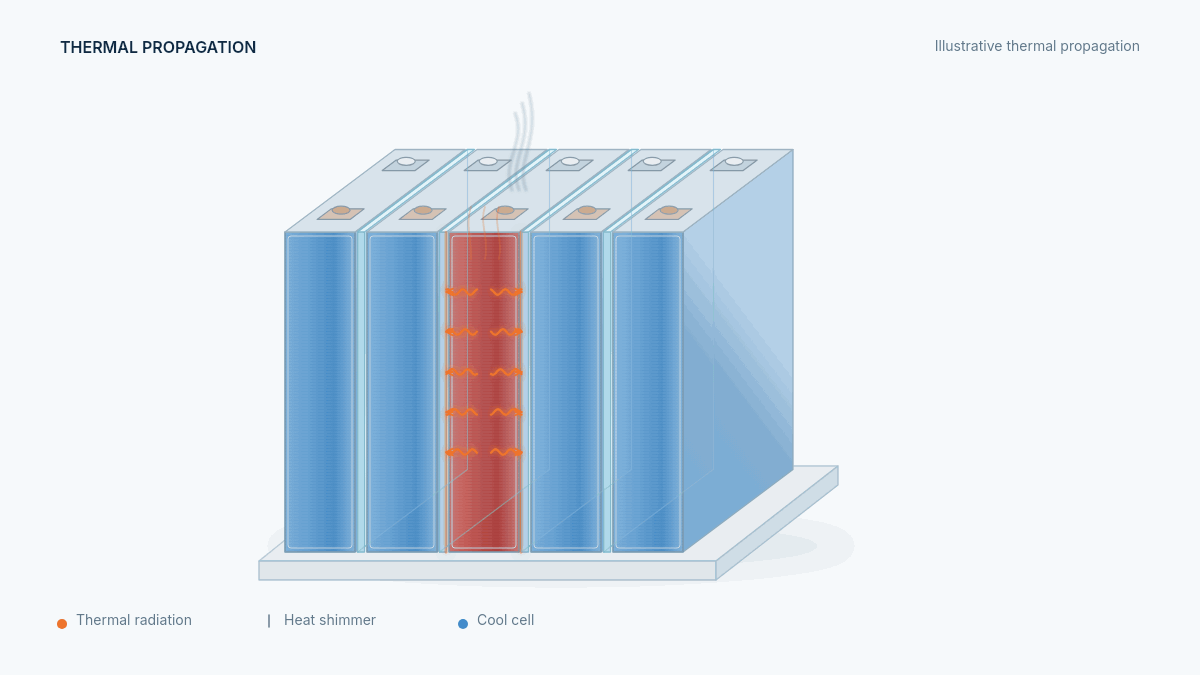
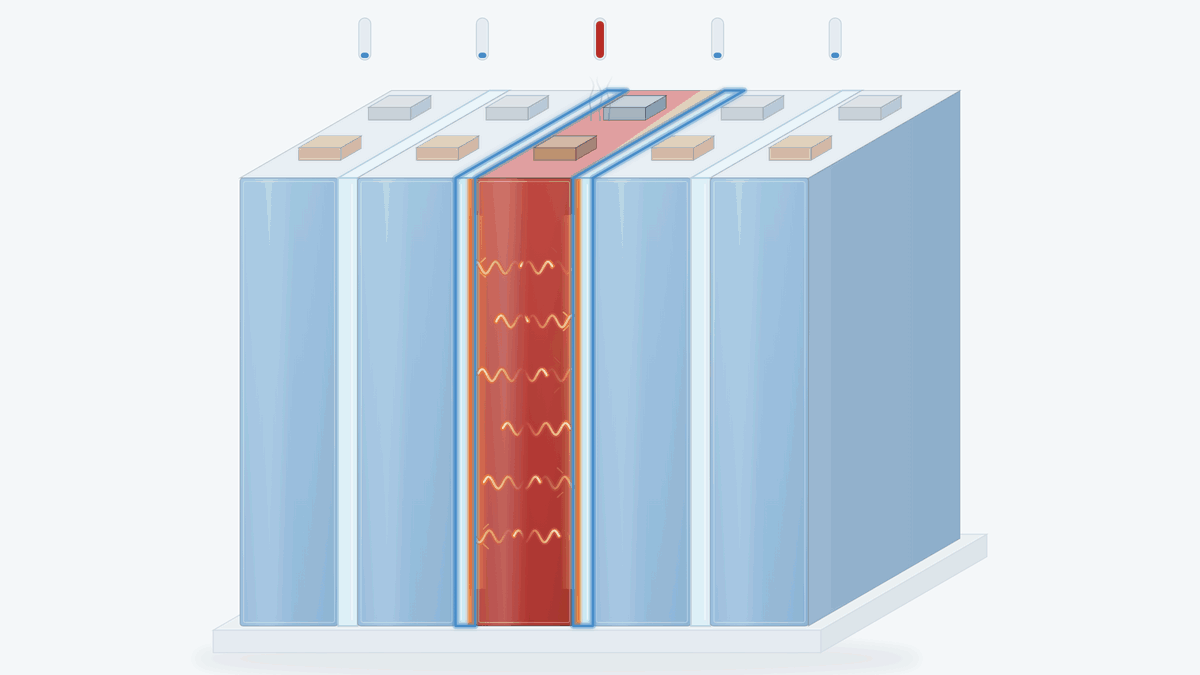
Adopt Claude's propagation GIFs and update the build prompt
Replace design/propagation-*.gif and assets/hero-frame-32.png with the
design-claude/ version, and update style-notes.md, README.md and
verification.json to describe them. Rewrite the build prompt around
the files actually uploaded: concepts for layout, a live canvas
animation reusing the renderer, copy fixes from the design review,
visible placeholders, and a browser check at 390 and 1440 px.

Claude-Session: https://claude.ai/code/session_015KNULboUEeR9JGwZvqPwSE

diff --git a/prompts/aerotherm-homepage-2-build.md b/prompts/aerotherm-homepage-2-build.md
@@ -1,7 +1,17 @@
-Build the company homepage for **Aerotherm** as a real, working single page in HTML and CSS. Base it on the design files in `design/` from the previous step: `concept-desktop.png`, `concept-mobile.png`, `propagation-without.gif`, `propagation-with.gif`, `principle-knudsen.gif`, `principle-solid.gif`, `principle-radiation.gif`, the icons in `design/icons/`, `loading.gif` and `style-notes.md`.
+Build the Aerotherm company homepage as a real, working single page in HTML, CSS and a little vanilla JavaScript, from the design files already in this repository. Put the site in `site/`: `site/index.html` and `site/assets/`. Leave `design/` and `design-claude/` as they are.
 
-**First, review the design**
-Look at every image and GIF before you write any code. Note the layout, colors, type, spacing, and each animation's key frames and timing, using `style-notes.md` where it helps. Where the design conflicts with this prompt (garbled text, invented numbers or logos, a physically wrong picture), follow this prompt and note what you changed.
+**The design files**
+| File | Use it for |
+| --- | --- |
+| `design/concept-desktop.png` (1440 px wide), `design/concept-mobile.png` (390 px wide) | Layout, section order, hierarchy and starting copy, at both sizes. Their hero image is out of date: use the propagation animation below instead. |
+| `design/style-notes.md` | Colors (hex), type scale, spacing scale, grid, control sizes, and every animation's keyframes and timing. |
+| `design/fonts/` | Manrope (headings and wordmark) and Inter (UI and body), with their OFL licenses. Self-host them with `@font-face` and ship the licenses. |
+| `design/propagation-without.gif`, `design/propagation-with.gif`, `design/assets/hero-frame-32.png` | The thermal propagation animation: the hero (with Aerotherm) and the Technology comparison (both). |
+| `design-claude/source/render.html` | The exact drawing code for that animation: geometry, heat colors, timing and emphasis effects. |
+| `design/principle-knudsen.gif`, `design/principle-solid.gif`, `design/principle-radiation.gif` | The three animated Technology panels. |
+| `design/icons/*.gif`, `design/loading.gif` | The six icons and the loading state. |
+| `design/assets/application-ev.png`, `design/assets/application-ess.png`, `design/assets/lab-concept.png` | The Applications and R&D illustrations. Use them as provided, converted to WebP at the sizes the layout needs. |
+| `design/README.md`, `design/generation-prompts.json`, `design/verification.json`, `design/preview.png`, `design/assets/board-material.png` | Background only; not for the page. |
 
 **Company and product facts (use only these)**
 - Aerotherm was founded in October 2026 in Pyeongtaek, Republic of Korea.
@@ -17,34 +27,41 @@ Look at every image and GIF before you write any code. Note the layout, colors, 
 3. Radiation blocking: infrared opacifiers mixed into the nano-silica reflect or scatter the radiant heat produced at high temperatures.
 4. Lower conductivity than still air: nano-silica insulation boards reach about 0.011–0.023 W/m·K, lower than still air (about 0.026 W/m·K at room temperature), and insulate more than twice as well as styrofoam or glass wool in a thinner layer.
 
-Present the figures in principle 4 as typical of nano-silica insulation boards, not as Aerotherm's own measured results; Aerotherm's measured thermal conductivity stays as `{{thermal_conductivity}}` in the spec table. Describe the radiation blocking only as infrared opacifiers mixed into the nano-silica, without naming specific materials or amounts.
+Present the figures in principle 4 as typical of nano-silica insulation boards, not as Aerotherm's own measured results. Describe the radiation blocking only as infrared opacifiers mixed into the nano-silica, without naming specific materials or amounts. Do not invent figures, history, people, test results, patents, certifications, partners or customers. It is a newly founded company, so do not imply a long track record, mass production or existing customers.
 
-Do not invent figures, history, people, test results, patents, certifications, partners or customers. It is a newly founded company, so do not imply a long track record, mass production or existing customers. Wherever the page needs a fact, put a clearly marked placeholder such as `{{thermal_conductivity}}`, `{{street_address}}` or `{{contact_email}}`.
+**Placeholders:** wherever the page needs a fact that is not above (Aerotherm's measured specs, street address, phone, email, patents, certifications, later news), write a visible token such as `{{thermal_conductivity}}` or `{{contact_email}}`, styled with a subtle dashed outline so nothing unfilled can ship unnoticed.
 
-**Copy:** a deep-tech materials company whose work keeps one failing battery cell from becoming a fire. Its edge is radiation: it blocks the heat that travels as radiation, not only the heat carried by convection that ordinary aerogel stops. Make that the thread through the hero, About and Technology. Keep the tone calm, precise and trustworthy, for engineers and buyers at battery, EV and ESS makers. Write in English, with a KO / EN switch in the header that links to `#` for now.
+**Copy**
+Start from the copy in the concept images, keep it within the facts, and write in English, with a KO / EN switch in the header that links to `#` for now. Radiation is the company's edge: make it the thread through the hero, About and Technology. Keep the tone calm, precise and trustworthy, for engineers and buyers at battery, EV and ESS makers. Fix these points from the concepts:
+- The "Lower conductivity than still air" panel must say these boards insulate more than twice as well as styrofoam or glass wool in a thinner layer, and label 0.011–0.023 W/m·K as typical of the material class.
+- The Product spec table gains a "Radiation-blocking performance" row. Every value in it is a placeholder.
 
-**Sections (one page with anchor navigation)**
-1. Header: AEROTHERM wordmark; nav for About, Technology, Product, Applications, R&D, News, Contact; KO / EN switch; a "Contact us" button.
-2. Hero: the company mission in one line, the hero animation (the with-Aerotherm propagation loop), and two calls to action (Explore our technology / Request a sample).
-3. About: who Aerotherm is (founded October 2026 in Pyeongtaek, Korea) and why thermal propagation matters.
-4. Technology: the four principles, each with its own animation (the Knudsen effect, solid conduction and radiation blocking) or chart (a bar chart of the typical 0.011–0.023 W/m·K range against still air), followed by the interactive with/without comparison.
-5. Product: the board, where it sits between cells, and a spec table made of placeholders, including thermal conductivity and radiation-blocking performance.
-6. Applications: EV battery packs (cell to cell) and ESS (cell to cell, rack and container).
-7. R&D and quality: lab and test capabilities, patents and certifications, all as placeholders.
-8. News and milestones: three cards. The first is the company's founding in October 2026; the other two are placeholders.
-9. Contact: an inquiry form (name, company, email, inquiry type: sample, technical, partnership; message) that validates on the client and is not wired to a backend.
-10. Footer: company info (Pyeongtaek, Republic of Korea, with street address, phone and email as placeholders), links and © 2026 Aerotherm.
+**Sections:** follow the concepts: header (AEROTHERM wordmark; About, Technology, Product, Applications, R&D, News, Contact; KO / EN; "Contact us"), hero, About, Technology (four principle panels, then "One event. Two outcomes."), Product, Applications (EV battery pack; ESS rack and container), R&D and quality, News and milestones (the first card is the founding in October 2026; the other two are placeholders), Contact, footer (Pyeongtaek, Republic of Korea; © 2026 Aerotherm).
+
+**The propagation animation (the page's centerpiece)**
+- Draw it live in a `<canvas>` by reusing the drawing code in `design-claude/source/render.html`. Its `draw(variant, frame)` renders any frame, and its timing functions accept fractional frames, so drive the frame from elapsed time (frame = 1 + elapsed / 50 ms, holding frame 60 for 1.5 s) and redraw on every animation frame for smooth motion. Adapt it where needed: size the canvas to its container and the device pixel ratio, and make the fade-in and fade-out (a table keyed by whole frames) work with fractional frames.
+- Hero: the animation with Aerotherm, looping.
+- "One event. Two outcomes.": both animations side by side on desktop and stacked on mobile, driven by one shared clock so they stay frame-aligned. Add play/pause and a scrubber (a range input) that moves both through the event together.
+- Give each canvas `role="img"` and an `aria-label` that says what happens. With `prefers-reduced-motion`, show still frames instead: frame 32 for the version with Aerotherm, frame 60 for the version without. Without JavaScript, show `hero-frame-32.png`. Pause the animations while they are off screen.
+
+**Other animations:** recreate the three principle panels, the six icons and the loading state in CSS keyframes and inline SVG, following the keyframes table in `style-notes.md`. Do not put the GIFs on the page. Give the icons a transparent background so they sit cleanly on white cards.
 
 **Build rules**
-- All text is real HTML, not baked into images. The nav scrolls to each section, and collapses into a menu on mobile.
-- Recreate the animations in code (CSS keyframes and inline SVG) instead of dropping the GIFs onto the page: the two propagation animations, the three principle animations, the icons and the loading state. Keep the propagation animations' stages and timing (3.2 s of motion, then a 1.5 s hold), and let the browser interpolate between stages so the motion is smooth. Keep their emphasis on the blocking moment: the heat front, its impact on the boards, the hot/cool line at each board, the outline pulse and the temperature gauges. Build the bar chart in HTML or SVG.
-- Draw the cells and boards in code the way the design does: prismatic cells stacked face to face with their thin narrow ends toward the viewer, seen from a slight three-quarter angle, and each Aerotherm board a thin sheet between the broad faces of two neighboring cells, about the same size as a broad face. Never put the boards between the cells' narrow edges.
-- Make the with/without comparison interactive: a toggle or slider that switches between the two propagation animations, frame for frame. Without Aerotherm, heat cascades through every cell; with it, heat stops at the boards beside the failing cell.
-- Convert any GIF you still need to a looping MP4 (muted, autoplay, playsinline, with a poster frame) or an animated WebP.
-- Keep the page light throughout, as in the design, with text and heat colors that meet WCAG AA contrast on the light background.
-- Make it responsive from 360 px to 1440 px and wider, following `concept-mobile.png` on small screens. Respect `prefers-reduced-motion` (show a static end state), and use semantic, accessible markup.
+- A static site: vanilla HTML, CSS and JavaScript, no framework and no build step. It works opened from disk or from any static server.
+- Put the colors, type, spacing and radii from `style-notes.md` into CSS custom properties.
+- Keep the page light throughout, with text and heat colors that meet WCAG AA contrast on the light background.
+- Make it responsive from 360 px to 1440 px and wider, following `concept-mobile.png` on small screens, with a mobile menu and no horizontal scrolling. The nav scrolls smoothly to each section.
+- Use semantic, accessible markup: landmarks, ordered headings, labelled form fields, visible focus states and alt text.
+- The contact form validates on the client and is not wired to a backend; say so in a short note under the button.
+- Give images explicit sizes and lazy-load those below the fold; preload the two fonts with `font-display: swap`.
+
+**Check before you deliver**
+- Open the page in a browser at 390 px and 1440 px, compare it with the concepts, and fix any overflow or broken layout.
+- Confirm the animations run, the scrubber and play/pause work, reduced motion shows the still frames, and the form validates.
+- Save full-page screenshots at both widths in `site/review/`.
 
 **Deliver**
-- `index.html` and its `assets/` folder (CSS, JS, SVG, video, images), leaving `design/` as it is
+- `site/index.html` and `site/assets/` (CSS, JS, fonts, images)
+- the screenshots in `site/review/`
 - a list of every placeholder that needs real Aerotherm data
 - a short note on where you departed from the design, and why

diff --git a/design/style-notes.md b/design/style-notes.md
@@ -32,18 +32,22 @@ Use soft laboratory lighting, metallic microtexture, fine rules and restrained g
 
 ## Cell geometry and shared animation rules
 
-Both propagation GIFs use the same fixed orthographic camera, approximately 25° off the narrow-end view and slightly above the module. Five tall, flat prismatic metal cans sit broad-face to broad-face, each with two top terminals. Relative physical dimensions: cell thickness 70, broad-face width 250, height 320; board thickness 7. These are illustration construction units, not product dimensions or specs. The four boards cover the broad faces. Fine cutaway outlines expose their area; the empty version preserves the same gaps and all cell positions.
+> **Updated:** the two propagation GIFs and `assets/hero-frame-32.png` were replaced with the version in `design-claude/`, which adds the blocking emphasis. Its renderer, `design-claude/source/render.html`, holds the exact geometry, colors and timing below. The hero in `concept-desktop.png` and `concept-mobile.png` still shows the earlier GIF; use the new GIFs and hero frame instead.
 
-Heat always begins in the middle cell. Geometry, terminal positions, camera, background and lighting remain fixed. Each propagation GIF has exactly 64 encoded frames at 1200 × 675 px. Frames 1–63 display for 50 ms; frame 64 displays for 1550 ms, comprising its normal 50 ms plus a 1500 ms hold. Motion is 3.2 s; the full looping cycle is 4.7 s. Both use the same global color table, with no local frame palettes. Heating stages use cubic smoothstep, `3t² − 2t³`.
+Both propagation GIFs use the same fixed oblique camera: the narrow ends face the viewer and depth recedes up and to the right at 30°, at half scale. Five tall, flat prismatic metal cans sit broad-face to broad-face, each with two top terminals. Relative dimensions: cell thickness 70, broad-face width 250, height 320; board thickness 14, one fifth of a cell, **exaggerated for legibility**. These are illustration construction units, not product dimensions or specs. The four boards cover the broad faces; their top edges run the full depth of the cells. The version without Aerotherm keeps the same gaps and cell positions. The module is centered at about 60% of the canvas width, with a number-free gauge above each cell. There is no text inside the GIFs.
 
-`assets/hero-frame-32.png` is decoded directly from frame 32 of `propagation-with.gif`. Both homepage heroes use that same image, cropped and scaled to the module, without changing its heat state. The Technology comparison uses the matched final states.
+Heat always begins in the middle cell. Geometry, camera, background and lighting remain fixed. Each propagation GIF has exactly 64 encoded frames at 1200 × 675 px. Every frame displays for 50 ms except frame 60, which displays for 1550 ms (50 ms plus a 1500 ms hold on the end state); the cycle is 4.7 s. Frames 1–4 fade in from the background and frames 61–64 fade out to it. Both use the same global color table, with no local frame palettes. Stages ease with cubic smoothstep, `3t² − 2t³`.
+
+Heat colors run from protected blue `#438CCB` through a bright near-white glow to amber `#F3B044`, orange `#EE742C` and red `#B82C25`, interpolated in OKLab; a cooling cell runs from red to ember `#71352E`. The heat-front band uses screen blending, so it lightens the cells and never grays them.
+
+`assets/hero-frame-32.png` is decoded directly from frame 32 of `propagation-with.gif`: the moment of impact, with the outline pulse at its peak. Use it for the hero's static and reduced-motion state.
 
 ## GIF keyframes, timing and easing
 
 | File | Keyframes and motion | Timing / easing |
 | --- | --- | --- |
-| `propagation-without.gif` | 1–8 cool; 9–16 center heats; 17–32 center vents, rays and shimmer spread toward adjacent cells; 33–48 adjacent cells become hot and pass heat outward; 49–64 outer cells become hot, ending with the whole module hot. | 64 frames; 50 ms, last 1550 ms; stage smoothstep; continuous low-amplitude ray and shimmer phase. |
-| `propagation-with.gif` | 1–8 cool with boards; 9–16 same center heating; 17–32 rays stop at the adjacent board boundaries and only the source-facing edges warm; 33–48 barriers hold; 49–64 center fades directly from hot red to dark ember. The four neighboring cans remain blue. | Same frame count, global palette, timing and camera as the unprotected sequence. Source-facing edge glow eases in; final ember fade uses smoothstep. |
+| `propagation-without.gif` | 1–4 fade in; 5–12 all cool, gauges low; 13–20 center cell heats to red; 21–32 it vents, and a bright heat front with infrared rays crosses the empty gaps into cells 2 and 4, whose gauges climb; 33–46 cells 2 and 4 turn red and the front moves into cells 1 and 5; 47–60 the whole module is in runaway, every gauge full (hold on 60); 61–64 fade out. | 64 frames; 50 ms, frame 60 1550 ms; stage smoothstep; rays every 7 frames per row, clipped at the module's edge. |
+| `propagation-with.gif` | 1–4 fade in with boards; 5–20 as above; 21–26 the heat front moves from the center of cell 3 to the boards; 27–34 impact: rays pile into both boards and sparks scatter back, a hot line spreads along each board's hot face and top edge, the boards' source-facing halves glow orange while their far halves stay blue, a blue outline pulses around both boards (peak at 32) and the rest of the module fades back; 35–46 the boards hold and the neighbors stay blue; 47–60 cell 3 cools to ember (hold on 60); 61–64 fade out. | Same frame count, global palette, timing and camera as the unprotected sequence. Frames 1–20 match it except at the boards. |
 | `principle-knudsen.gif` | Molecules travel along closed triangular chord paths inside small pores, changing direction at walls. Pores stay fixed. The dashed mean-free-path reference is longer than a pore and labeled `~70 nm`. | 960 × 540; 48 frames × 50 ms = 2.4 s. Periodic linear travel between wall collisions; seamless cycle, no end hold. |
 | `principle-solid.gif` | Warm pulses follow narrow silica branches. Pulse intensity decreases along the network, leaving the far paths cool. | 960 × 540; 48 × 50 ms = 2.4 s. Linear travel, sine envelope at edge endpoints, spatial attenuation; seamless cycle. |
 | `principle-radiation.gif` | Left: aerogel stops rising shimmer while IR waves continue. Right: fixed opacifier particles scatter and reflect IR waves upstream; no outgoing rays or shimmer on the protected side. | 1200 × 540; 48 × 50 ms = 2.4 s. Periodic sine-wave phase; fixed geometry; seamless cycle. |

diff --git a/design/README.md b/design/README.md
@@ -45,6 +45,6 @@ design/
     └── Inter-OFL.txt
 ```
 
-The propagation GIFs each contain exactly 64 frames at 1200 × 675 px, with 50 ms frame timing and a 1500 ms additional hold on the last frame. The supplied hero PNG is an exact decode of protected frame 32. Scientific animations, applications and lab imagery are illustrative; no test results, certification marks, customer logos or unsupplied specs are asserted.
+The propagation GIFs and `assets/hero-frame-32.png` were replaced with the version in `design-claude/` (renderer source, review stills and checks are there). Each GIF contains exactly 64 frames at 1200 × 675 px, with 50 ms frame timing and a 1500 ms additional hold on frame 60, then a four-frame fade-out. The hero PNG is an exact decode of protected frame 32. The concept PNGs still show the earlier hero. Scientific animations, applications and lab imagery are illustrative; no test results, certification marks, customer logos or unsupplied specs are asserted.
 
 The built-in image generator was used for visual exploration and source illustrations. It did not expose a GPT Image 2.6 selector. Final page typography and scientific motion were assembled as raster artwork; no HTML or CSS is included. See `generation-prompts.json` for the prompts and `style-notes.md` for all timing, geometry, typography and palette details.
